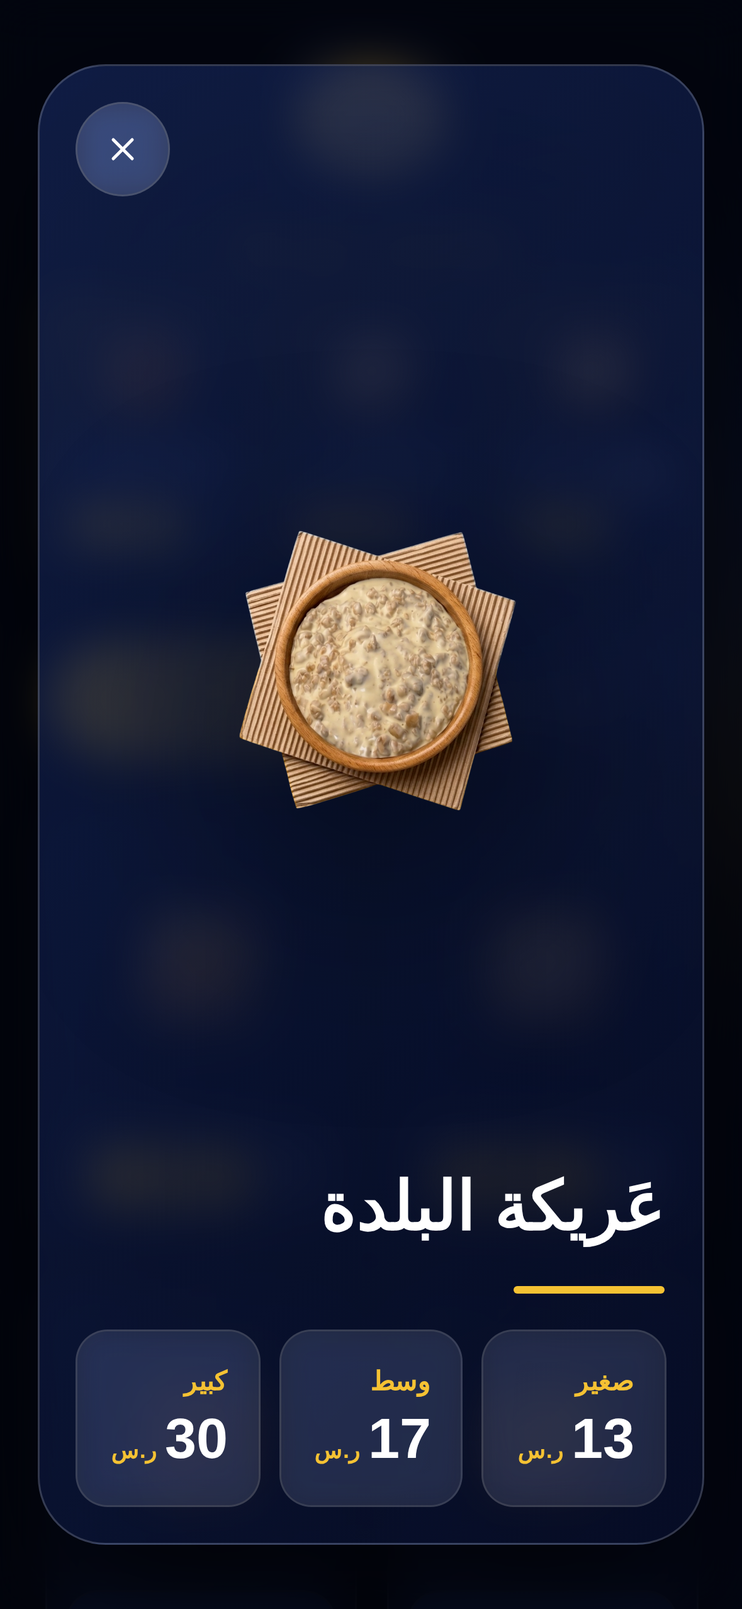
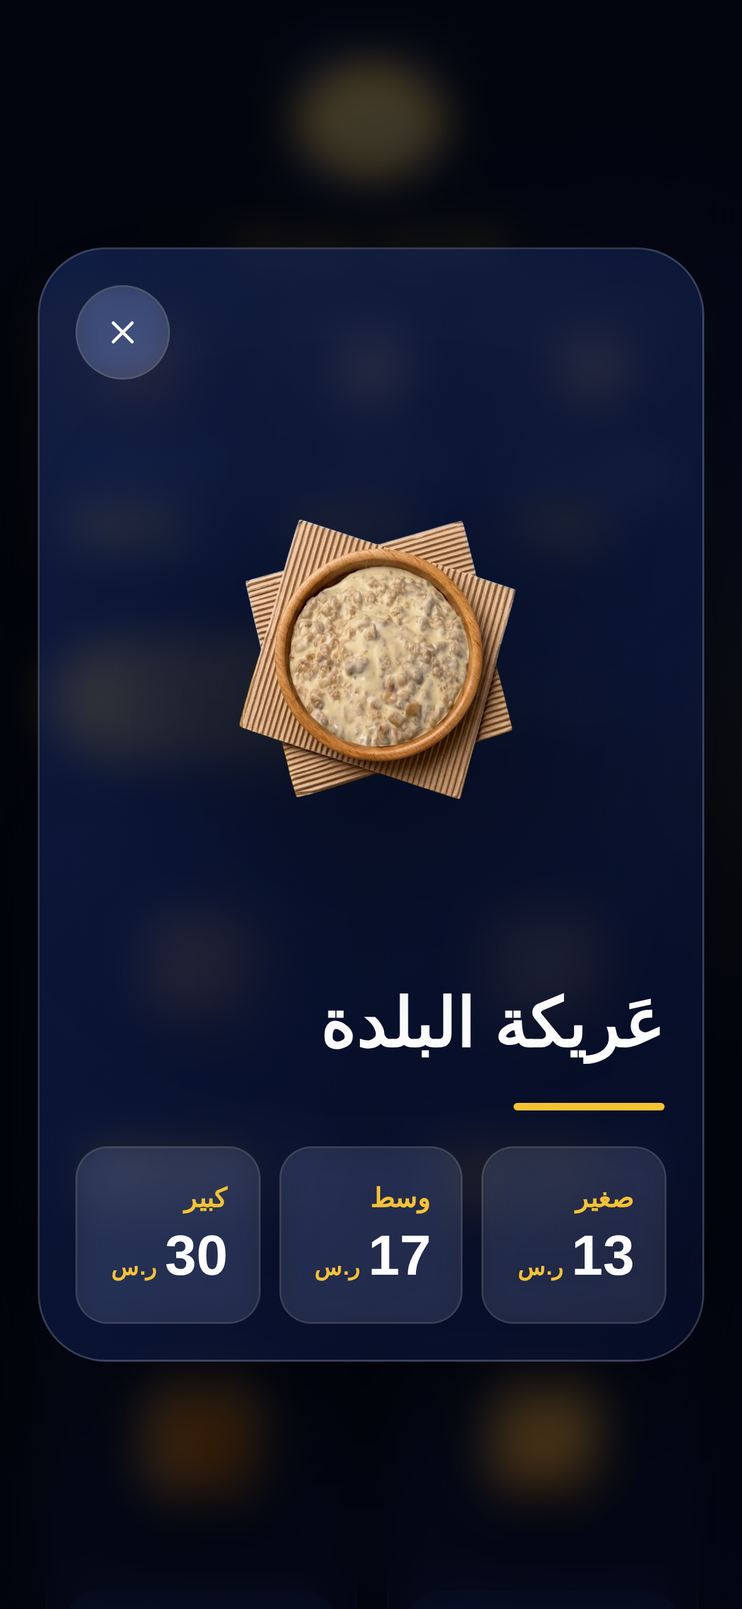
fix(web): detail-modal image fills the modal width on phone
Previous attempt used grid-rows-[1fr_auto] to make the image cell
"grow" — but with a square image inside a portrait container, that
stretched the cell while the image stayed clamped at the cell's
narrower (width) dimension. So the image was the same size, just
floating in a giant empty band above and below.

New approach: make the modal a flex-column on phone with each cell
sized to its content (no 1fr stretch), and force the image into an
aspect-square box that fills the modal width. The image is now
~360 px square on iPhone — filling the modal width, no empty band.

md+ keeps flex-row with md:h-full / md:max-h-full so iPad layout
is unchanged.

https://claude.ai/code/session_01Tjv9deCadTK9xL9Nd7REno

diff --git a/docs/assets/index-D8JvrOtp.css b/docs/assets/index-D8JvrOtp.css
@@ -1,0 +1,1 @@
+*,:before,:after{--tw-border-spacing-x: 0;--tw-border-spacing-y: 0;--tw-translate-x: 0;--tw-translate-y: 0;--tw-rotate: 0;--tw-skew-x: 0;--tw-skew-y: 0;--tw-scale-x: 1;--tw-scale-y: 1;--tw-pan-x: ;--tw-pan-y: ;--tw-pinch-zoom: ;--tw-scroll-snap-strictness: proximity;--tw-gradient-from-position: ;--tw-gradient-via-position: ;--tw-gradient-to-position: ;--tw-ordinal: ;--tw-slashed-zero: ;--tw-numeric-figure: ;--tw-numeric-spacing: ;--tw-numeric-fraction: ;--tw-ring-inset: ;--tw-ring-offset-width: 0px;--tw-ring-offset-color: #fff;--tw-ring-color: rgb(59 130 246 / .5);--tw-ring-offset-shadow: 0 0 #0000;--tw-ring-shadow: 0 0 #0000;--tw-shadow: 0 0 #0000;--tw-shadow-colored: 0 0 #0000;--tw-blur: ;--tw-brightness: ;--tw-contrast: ;--tw-grayscale: ;--tw-hue-rotate: ;--tw-invert: ;--tw-saturate: ;--tw-sepia: ;--tw-drop-shadow: ;--tw-backdrop-blur: ;--tw-backdrop-brightness: ;--tw-backdrop-contrast: ;--tw-backdrop-grayscale: ;--tw-backdrop-hue-rotate: ;--tw-backdrop-invert: ;--tw-backdrop-opacity: ;--tw-backdrop-saturate: ;--tw-backdrop-sepia: ;--tw-contain-size: ;--tw-contain-layout: ;--tw-contain-paint: ;--tw-contain-style: }::backdrop{--tw-border-spacing-x: 0;--tw-border-spacing-y: 0;--tw-translate-x: 0;--tw-translate-y: 0;--tw-rotate: 0;--tw-skew-x: 0;--tw-skew-y: 0;--tw-scale-x: 1;--tw-scale-y: 1;--tw-pan-x: ;--tw-pan-y: ;--tw-pinch-zoom: ;--tw-scroll-snap-strictness: proximity;--tw-gradient-from-position: ;--tw-gradient-via-position: ;--tw-gradient-to-position: ;--tw-ordinal: ;--tw-slashed-zero: ;--tw-numeric-figure: ;--tw-numeric-spacing: ;--tw-numeric-fraction: ;--tw-ring-inset: ;--tw-ring-offset-width: 0px;--tw-ring-offset-color: #fff;--tw-ring-color: rgb(59 130 246 / .5);--tw-ring-offset-shadow: 0 0 #0000;--tw-ring-shadow: 0 0 #0000;--tw-shadow: 0 0 #0000;--tw-shadow-colored: 0 0 #0000;--tw-blur: ;--tw-brightness: ;--tw-contrast: ;--tw-grayscale: ;--tw-hue-rotate: ;--tw-invert: ;--tw-saturate: ;--tw-sepia: ;--tw-drop-shadow: ;--tw-backdrop-blur: ;--tw-backdrop-brightness: ;--tw-backdrop-contrast: ;--tw-backdrop-grayscale: ;--tw-backdrop-hue-rotate: ;--tw-backdrop-invert: ;--tw-backdrop-opacity: ;--tw-backdrop-saturate: ;--tw-backdrop-sepia: ;--tw-contain-size: ;--tw-contain-layout: ;--tw-contain-paint: ;--tw-contain-style: }*,:before,:after{box-sizing:border-box;border-width:0;border-style:solid;border-color:#e5e7eb}:before,:after{--tw-content: ""}html,:host{line-height:1.5;-webkit-text-size-adjust:100%;-moz-tab-size:4;-o-tab-size:4;tab-size:4;font-family:ui-sans-serif,system-ui,sans-serif,"Apple Color Emoji","Segoe UI Emoji",Segoe UI Symbol,"Noto Color Emoji";font-feature-settings:normal;font-variation-settings:normal;-webkit-tap-highlight-color:transparent}body{margin:0;line-height:inherit}hr{height:0;color:inherit;border-top-width:1px}abbr:where([title]){-webkit-text-decoration:underline dotted;text-decoration:underline dotted}h1,h2,h3,h4,h5,h6{font-size:inherit;font-weight:inherit}a{color:inherit;text-decoration:inherit}b,strong{font-weight:bolder}code,kbd,samp,pre{font-family:ui-monospace,SFMono-Regular,Menlo,Monaco,Consolas,Liberation Mono,Courier New,monospace;font-feature-settings:normal;font-variation-settings:normal;font-size:1em}small{font-size:80%}sub,sup{font-size:75%;line-height:0;position:relative;vertical-align:baseline}sub{bottom:-.25em}sup{top:-.5em}table{text-indent:0;border-color:inherit;border-collapse:collapse}button,input,optgroup,select,textarea{font-family:inherit;font-feature-settings:inherit;font-variation-settings:inherit;font-size:100%;font-weight:inherit;line-height:inherit;letter-spacing:inherit;color:inherit;margin:0;padding:0}button,select{text-transform:none}button,input:where([type=button]),input:where([type=reset]),input:where([type=submit]){-webkit-appearance:button;background-color:transparent;background-image:none}:-moz-focusring{outline:auto}:-moz-ui-invalid{box-shadow:none}progress{vertical-align:baseline}::-webkit-inner-spin-button,::-webkit-outer-spin-button{height:auto}[type=search]{-webkit-appearance:textfield;outline-offset:-2px}::-webkit-search-decoration{-webkit-appearance:none}::-webkit-file-upload-button{-webkit-appearance:button;font:inherit}summary{display:list-item}blockquote,dl,dd,h1,h2,h3,h4,h5,h6,hr,figure,p,pre{margin:0}fieldset{margin:0;padding:0}legend{padding:0}ol,ul,menu{list-style:none;margin:0;padding:0}dialog{padding:0}textarea{resize:vertical}input::-moz-placeholder,textarea::-moz-placeholder{opacity:1;color:#9ca3af}input::placeholder,textarea::placeholder{opacity:1;color:#9ca3af}button,[role=button]{cursor:pointer}:disabled{cursor:default}img,svg,video,canvas,audio,iframe,embed,object{display:block;vertical-align:middle}img,video{max-width:100%;height:auto}[hidden]:where(:not([hidden=until-found])){display:none}html,body,#root{height:100%;width:100%}body{font-family:Cairo,sans-serif;background:#070d24;color:#fff;overflow:hidden;-webkit-tap-highlight-color:transparent}.container{width:100%}@media(min-width:640px){.container{max-width:640px}}@media(min-width:768px){.container{max-width:768px}}@media(min-width:1024px){.container{max-width:1024px}}@media(min-width:1280px){.container{max-width:1280px}}@media(min-width:1536px){.container{max-width:1536px}}.pointer-events-none{pointer-events:none}.visible{visibility:visible}.static{position:static}.fixed{position:fixed}.absolute{position:absolute}.relative{position:relative}.inset-0{top:0;right:0;bottom:0;left:0}.left-5{left:1.25rem}.top-5{top:1.25rem}.z-10{z-index:10}.z-50{z-index:50}.mx-2{margin-left:.5rem;margin-right:.5rem}.mx-3{margin-left:.75rem;margin-right:.75rem}.mx-auto{margin-left:auto;margin-right:auto}.my-5{margin-top:1.25rem;margin-bottom:1.25rem}.mb-2{margin-bottom:.5rem}.mb-3{margin-bottom:.75rem}.mt-1{margin-top:.25rem}.mt-6{margin-top:1.5rem}.mt-8{margin-top:2rem}.line-clamp-2{overflow:hidden;display:-webkit-box;-webkit-box-orient:vertical;-webkit-line-clamp:2}.flex{display:flex}.grid{display:grid}.aspect-\[3\/4\]{aspect-ratio:3/4}.aspect-square{aspect-ratio:1 / 1}.h-1{height:.25rem}.h-12{height:3rem}.h-14{height:3.5rem}.h-20{height:5rem}.h-4{height:1rem}.h-5{height:1.25rem}.h-\[45vh\]{height:45vh}.h-\[55vh\]{height:55vh}.h-full{height:100%}.h-px{height:1px}.max-h-full{max-height:100%}.min-h-\[2\.4em\]{min-height:2.4em}.w-12{width:3rem}.w-20{width:5rem}.w-4{width:1rem}.w-5{width:1.25rem}.w-8{width:2rem}.w-\[45vw\]{width:45vw}.w-\[55vw\]{width:55vw}.w-auto{width:auto}.w-full{width:100%}.min-w-0{min-width:0px}.max-w-2xl{max-width:42rem}.max-w-6xl{max-width:72rem}.max-w-7xl{max-width:80rem}.max-w-full{max-width:100%}.max-w-md{max-width:28rem}.flex-1{flex:1 1 0%}.flex-shrink-0,.shrink-0{flex-shrink:0}.scale-\[1\.04\]{--tw-scale-x: 1.04;--tw-scale-y: 1.04;transform:translate(var(--tw-translate-x),var(--tw-translate-y)) rotate(var(--tw-rotate)) skew(var(--tw-skew-x)) skewY(var(--tw-skew-y)) scaleX(var(--tw-scale-x)) scaleY(var(--tw-scale-y))}.transform{transform:translate(var(--tw-translate-x),var(--tw-translate-y)) rotate(var(--tw-rotate)) skew(var(--tw-skew-x)) skewY(var(--tw-skew-y)) scaleX(var(--tw-scale-x)) scaleY(var(--tw-scale-y))}.grid-cols-2{grid-template-columns:repeat(2,minmax(0,1fr))}.grid-cols-3{grid-template-columns:repeat(3,minmax(0,1fr))}.flex-col{flex-direction:column}.place-items-center{place-items:center}.items-end{align-items:flex-end}.items-center{align-items:center}.items-baseline{align-items:baseline}.items-stretch{align-items:stretch}.justify-center{justify-content:center}.justify-between{justify-content:space-between}.gap-0\.5{gap:.125rem}.gap-1{gap:.25rem}.gap-2{gap:.5rem}.gap-3{gap:.75rem}.gap-4{gap:1rem}.self-end{align-self:flex-end}.overflow-hidden{overflow:hidden}.overflow-y-auto{overflow-y:auto}.overscroll-none{overscroll-behavior:none}.rounded-2xl{border-radius:1rem}.rounded-3xl{border-radius:1.5rem}.rounded-\[36px\]{border-radius:36px}.rounded-full{border-radius:9999px}.rounded-md{border-radius:.375rem}.rounded-xl{border-radius:.75rem}.border{border-width:1px}.bg-\[\#070d24\]{--tw-bg-opacity: 1;background-color:rgb(7 13 36 / var(--tw-bg-opacity, 1))}.bg-black\/60{background-color:#0009}.bg-brand-yellow{--tw-bg-opacity: 1;background-color:rgb(245 194 51 / var(--tw-bg-opacity, 1))}.bg-white\/10{background-color:#ffffff1a}.bg-white\/15{background-color:#ffffff26}.bg-gradient-to-l{background-image:linear-gradient(to left,var(--tw-gradient-stops))}.bg-gradient-to-r{background-image:linear-gradient(to right,var(--tw-gradient-stops))}.from-brand-yellow{--tw-gradient-from: #f5c233 var(--tw-gradient-from-position);--tw-gradient-to: rgb(245 194 51 / 0) var(--tw-gradient-to-position);--tw-gradient-stops: var(--tw-gradient-from), var(--tw-gradient-to)}.to-transparent{--tw-gradient-to: transparent var(--tw-gradient-to-position)}.fill-brand-yellow{fill:#f5c233}.object-contain{-o-object-fit:contain;object-fit:contain}.p-1\.5{padding:.375rem}.p-3{padding:.75rem}.p-4{padding:1rem}.p-5{padding:1.25rem}.px-1\.5{padding-left:.375rem;padding-right:.375rem}.px-2{padding-left:.5rem;padding-right:.5rem}.px-3{padding-left:.75rem;padding-right:.75rem}.px-6{padding-left:1.5rem;padding-right:1.5rem}.py-0\.5{padding-top:.125rem;padding-bottom:.125rem}.py-1\.5{padding-top:.375rem;padding-bottom:.375rem}.py-2\.5{padding-top:.625rem;padding-bottom:.625rem}.pb-1{padding-bottom:.25rem}.pb-10{padding-bottom:2.5rem}.pb-3{padding-bottom:.75rem}.pt-10{padding-top:2.5rem}.pt-3{padding-top:.75rem}.pt-4{padding-top:1rem}.pt-6{padding-top:1.5rem}.text-center{text-align:center}.text-right{text-align:right}.font-cairo{font-family:Cairo,sans-serif}.font-tajawal{font-family:Tajawal,sans-serif}.text-2xl{font-size:1.5rem;line-height:2rem}.text-3xl{font-size:1.875rem;line-height:2.25rem}.text-\[10px\]{font-size:10px}.text-\[11px\]{font-size:11px}.text-\[8px\]{font-size:8px}.text-\[9px\]{font-size:9px}.text-base{font-size:1rem;line-height:1.5rem}.text-sm{font-size:.875rem;line-height:1.25rem}.text-xl{font-size:1.25rem;line-height:1.75rem}.text-xs{font-size:.75rem;line-height:1rem}.font-black{font-weight:900}.font-bold{font-weight:700}.leading-\[1\.2\]{line-height:1.2}.leading-none{line-height:1}.leading-tight{line-height:1.25}.tracking-wide{letter-spacing:.025em}.text-brand-blueDeep{--tw-text-opacity: 1;color:rgb(9 18 54 / var(--tw-text-opacity, 1))}.text-brand-yellow{--tw-text-opacity: 1;color:rgb(245 194 51 / var(--tw-text-opacity, 1))}.text-white{--tw-text-opacity: 1;color:rgb(255 255 255 / var(--tw-text-opacity, 1))}.text-white\/80{color:#fffc}.antialiased{-webkit-font-smoothing:antialiased;-moz-osx-font-smoothing:grayscale}.opacity-80{opacity:.8}.shadow-\[0_4px_14px_rgba\(245\,194\,51\,0\.35\)\]{--tw-shadow: 0 4px 14px rgba(245,194,51,.35);--tw-shadow-colored: 0 4px 14px var(--tw-shadow-color);box-shadow:var(--tw-ring-offset-shadow, 0 0 #0000),var(--tw-ring-shadow, 0 0 #0000),var(--tw-shadow)}.outline-none{outline:2px solid transparent;outline-offset:2px}.ring{--tw-ring-offset-shadow: var(--tw-ring-inset) 0 0 0 var(--tw-ring-offset-width) var(--tw-ring-offset-color);--tw-ring-shadow: var(--tw-ring-inset) 0 0 0 calc(3px + var(--tw-ring-offset-width)) var(--tw-ring-color);box-shadow:var(--tw-ring-offset-shadow),var(--tw-ring-shadow),var(--tw-shadow, 0 0 #0000)}.ring-1{--tw-ring-offset-shadow: var(--tw-ring-inset) 0 0 0 var(--tw-ring-offset-width) var(--tw-ring-offset-color);--tw-ring-shadow: var(--tw-ring-inset) 0 0 0 calc(1px + var(--tw-ring-offset-width)) var(--tw-ring-color);box-shadow:var(--tw-ring-offset-shadow),var(--tw-ring-shadow),var(--tw-shadow, 0 0 #0000)}.ring-2{--tw-ring-offset-shadow: var(--tw-ring-inset) 0 0 0 var(--tw-ring-offset-width) var(--tw-ring-offset-color);--tw-ring-shadow: var(--tw-ring-inset) 0 0 0 calc(2px + var(--tw-ring-offset-width)) var(--tw-ring-color);box-shadow:var(--tw-ring-offset-shadow),var(--tw-ring-shadow),var(--tw-shadow, 0 0 #0000)}.ring-inset{--tw-ring-inset: inset}.ring-brand-yellow\/0{--tw-ring-color: rgb(245 194 51 / 0)}.ring-brand-yellow\/40{--tw-ring-color: rgb(245 194 51 / .4)}.ring-white\/10{--tw-ring-color: rgb(255 255 255 / .1)}.ring-white\/15{--tw-ring-color: rgb(255 255 255 / .15)}.ring-white\/20{--tw-ring-color: rgb(255 255 255 / .2)}.ring-white\/25{--tw-ring-color: rgb(255 255 255 / .25)}.blur{--tw-blur: blur(8px);filter:var(--tw-blur) var(--tw-brightness) var(--tw-contrast) var(--tw-grayscale) var(--tw-hue-rotate) var(--tw-invert) var(--tw-saturate) var(--tw-sepia) var(--tw-drop-shadow)}.drop-shadow-\[0_18px_28px_rgba\(0\,0\,0\,0\.55\)\]{--tw-drop-shadow: drop-shadow(0 18px 28px rgba(0,0,0,.55));filter:var(--tw-blur) var(--tw-brightness) var(--tw-contrast) var(--tw-grayscale) var(--tw-hue-rotate) var(--tw-invert) var(--tw-saturate) var(--tw-sepia) var(--tw-drop-shadow)}.drop-shadow-\[0_36px_60px_rgba\(0\,0\,0\,0\.55\)\]{--tw-drop-shadow: drop-shadow(0 36px 60px rgba(0,0,0,.55));filter:var(--tw-blur) var(--tw-brightness) var(--tw-contrast) var(--tw-grayscale) var(--tw-hue-rotate) var(--tw-invert) var(--tw-saturate) var(--tw-sepia) var(--tw-drop-shadow)}.filter{filter:var(--tw-blur) var(--tw-brightness) var(--tw-contrast) var(--tw-grayscale) var(--tw-hue-rotate) var(--tw-invert) var(--tw-saturate) var(--tw-sepia) var(--tw-drop-shadow)}.backdrop-blur{--tw-backdrop-blur: blur(8px);-webkit-backdrop-filter:var(--tw-backdrop-blur) var(--tw-backdrop-brightness) var(--tw-backdrop-contrast) var(--tw-backdrop-grayscale) var(--tw-backdrop-hue-rotate) var(--tw-backdrop-invert) var(--tw-backdrop-opacity) var(--tw-backdrop-saturate) var(--tw-backdrop-sepia);backdrop-filter:var(--tw-backdrop-blur) var(--tw-backdrop-brightness) var(--tw-backdrop-contrast) var(--tw-backdrop-grayscale) var(--tw-backdrop-hue-rotate) var(--tw-backdrop-invert) var(--tw-backdrop-opacity) var(--tw-backdrop-saturate) var(--tw-backdrop-sepia)}.backdrop-blur-3xl{--tw-backdrop-blur: blur(64px);-webkit-backdrop-filter:var(--tw-backdrop-blur) var(--tw-backdrop-brightness) var(--tw-backdrop-contrast) var(--tw-backdrop-grayscale) var(--tw-backdrop-hue-rotate) var(--tw-backdrop-invert) var(--tw-backdrop-opacity) var(--tw-backdrop-saturate) var(--tw-backdrop-sepia);backdrop-filter:var(--tw-backdrop-blur) var(--tw-backdrop-brightness) var(--tw-backdrop-contrast) var(--tw-backdrop-grayscale) var(--tw-backdrop-hue-rotate) var(--tw-backdrop-invert) var(--tw-backdrop-opacity) var(--tw-backdrop-saturate) var(--tw-backdrop-sepia)}.backdrop-blur-md{--tw-backdrop-blur: blur(12px);-webkit-backdrop-filter:var(--tw-backdrop-blur) var(--tw-backdrop-brightness) var(--tw-backdrop-contrast) var(--tw-backdrop-grayscale) var(--tw-backdrop-hue-rotate) var(--tw-backdrop-invert) var(--tw-backdrop-opacity) var(--tw-backdrop-saturate) var(--tw-backdrop-sepia);backdrop-filter:var(--tw-backdrop-blur) var(--tw-backdrop-brightness) var(--tw-backdrop-contrast) var(--tw-backdrop-grayscale) var(--tw-backdrop-hue-rotate) var(--tw-backdrop-invert) var(--tw-backdrop-opacity) var(--tw-backdrop-saturate) var(--tw-backdrop-sepia)}.backdrop-filter{-webkit-backdrop-filter:var(--tw-backdrop-blur) var(--tw-backdrop-brightness) var(--tw-backdrop-contrast) var(--tw-backdrop-grayscale) var(--tw-backdrop-hue-rotate) var(--tw-backdrop-invert) var(--tw-backdrop-opacity) var(--tw-backdrop-saturate) var(--tw-backdrop-sepia);backdrop-filter:var(--tw-backdrop-blur) var(--tw-backdrop-brightness) var(--tw-backdrop-contrast) var(--tw-backdrop-grayscale) var(--tw-backdrop-hue-rotate) var(--tw-backdrop-invert) var(--tw-backdrop-opacity) var(--tw-backdrop-saturate) var(--tw-backdrop-sepia)}.transition{transition-property:color,background-color,border-color,text-decoration-color,fill,stroke,opacity,box-shadow,transform,filter,backdrop-filter;transition-timing-function:cubic-bezier(.4,0,.2,1);transition-duration:.15s}.transition-\[box-shadow\]{transition-property:box-shadow;transition-timing-function:cubic-bezier(.4,0,.2,1);transition-duration:.15s}.transition-colors{transition-property:color,background-color,border-color,text-decoration-color,fill,stroke;transition-timing-function:cubic-bezier(.4,0,.2,1);transition-duration:.15s}.transition-transform{transition-property:transform;transition-timing-function:cubic-bezier(.4,0,.2,1);transition-duration:.15s}.duration-200{transition-duration:.2s}.ease-out{transition-timing-function:cubic-bezier(0,0,.2,1)}.will-change-transform{will-change:transform}.hover\:-translate-y-1:hover{--tw-translate-y: -.25rem;transform:translate(var(--tw-translate-x),var(--tw-translate-y)) rotate(var(--tw-rotate)) skew(var(--tw-skew-x)) skewY(var(--tw-skew-y)) scaleX(var(--tw-scale-x)) scaleY(var(--tw-scale-y))}.hover\:bg-white\/20:hover{background-color:#fff3}.hover\:text-white:hover{--tw-text-opacity: 1;color:rgb(255 255 255 / var(--tw-text-opacity, 1))}.active\:scale-90:active{--tw-scale-x: .9;--tw-scale-y: .9;transform:translate(var(--tw-translate-x),var(--tw-translate-y)) rotate(var(--tw-rotate)) skew(var(--tw-skew-x)) skewY(var(--tw-skew-y)) scaleX(var(--tw-scale-x)) scaleY(var(--tw-scale-y))}.active\:scale-\[0\.98\]:active{--tw-scale-x: .98;--tw-scale-y: .98;transform:translate(var(--tw-translate-x),var(--tw-translate-y)) rotate(var(--tw-rotate)) skew(var(--tw-skew-x)) skewY(var(--tw-skew-y)) scaleX(var(--tw-scale-x)) scaleY(var(--tw-scale-y))}.group:hover .group-hover\:ring-brand-yellow\/40{--tw-ring-color: rgb(245 194 51 / .4)}.group:hover .group-hover\:ring-brand-yellow\/70{--tw-ring-color: rgb(245 194 51 / .7)}@media(min-width:640px){.sm\:mx-3{margin-left:.75rem;margin-right:.75rem}.sm\:mb-3{margin-bottom:.75rem}.sm\:line-clamp-1{overflow:hidden;display:-webkit-box;-webkit-box-orient:vertical;-webkit-line-clamp:1}.sm\:h-5{height:1.25rem}.sm\:min-h-0{min-height:0px}.sm\:w-16{width:4rem}.sm\:w-5{width:1.25rem}.sm\:flex-row{flex-direction:row}.sm\:items-center{align-items:center}.sm\:justify-between{justify-content:space-between}.sm\:gap-1{gap:.25rem}.sm\:gap-2{gap:.5rem}.sm\:gap-3{gap:.75rem}.sm\:gap-4{gap:1rem}.sm\:self-auto{align-self:auto}.sm\:rounded-2xl{border-radius:1rem}.sm\:rounded-3xl{border-radius:1.5rem}.sm\:rounded-lg{border-radius:.5rem}.sm\:p-7{padding:1.75rem}.sm\:px-2{padding-left:.5rem;padding-right:.5rem}.sm\:px-3{padding-left:.75rem;padding-right:.75rem}.sm\:py-1{padding-top:.25rem;padding-bottom:.25rem}.sm\:py-2{padding-top:.5rem;padding-bottom:.5rem}.sm\:pb-4{padding-bottom:1rem}.sm\:pt-12{padding-top:3rem}.sm\:pt-4{padding-top:1rem}.sm\:text-\[9px\]{font-size:9px}.sm\:text-lg{font-size:1.125rem;line-height:1.75rem}.sm\:text-sm{font-size:.875rem;line-height:1.25rem}.sm\:text-xl{font-size:1.25rem;line-height:1.75rem}}@media(min-width:768px){.md\:order-1{order:1}.md\:order-2{order:2}.md\:aspect-auto{aspect-ratio:auto}.md\:h-16{height:4rem}.md\:h-24{height:6rem}.md\:h-full{height:100%}.md\:max-h-\[88vh\]{max-height:88vh}.md\:max-h-full{max-height:100%}.md\:w-24{width:6rem}.md\:w-auto{width:auto}.md\:max-w-full{max-width:100%}.md\:flex-1{flex:1 1 0%}.md\:grid-cols-3{grid-template-columns:repeat(3,minmax(0,1fr))}.md\:flex-row{flex-direction:row}.md\:items-stretch{align-items:stretch}.md\:gap-4{gap:1rem}.md\:gap-8{gap:2rem}.md\:p-10{padding:2.5rem}.md\:px-10{padding-left:2.5rem;padding-right:2.5rem}.md\:pt-0{padding-top:0}.md\:pt-8{padding-top:2rem}.md\:text-2xl{font-size:1.5rem;line-height:2rem}.md\:text-4xl{font-size:2.25rem;line-height:2.5rem}.md\:text-base{font-size:1rem;line-height:1.5rem}.md\:text-sm{font-size:.875rem;line-height:1.25rem}.md\:text-xl{font-size:1.25rem;line-height:1.75rem}}@media(min-width:1024px){.lg\:grid-cols-4{grid-template-columns:repeat(4,minmax(0,1fr))}}

diff --git a/docs/assets/index-BWzk2hHK.js b/docs/assets/index-BWzk2hHK.js
@@ -84,4 +84,4 @@ Error generating stack: `+a.message+`
  *
  * This source code is licensed under the ISC license.
  * See the LICENSE file in the root directory of this source tree.
- */const hA=Ig("X",[["path",{d:"M18 6 6 18",key:"1bl5f8"}],["path",{d:"m6 6 12 12",key:"d8bk6v"}]]),dA=({dish:i,onClose:l})=>H.jsx(pn.div,{initial:{opacity:0},animate:{opacity:1},exit:{opacity:0},transition:{duration:.25},onClick:l,className:"fixed inset-0 z-50 grid place-items-center bg-black/60 p-5 backdrop-blur-md",children:H.jsxs(pn.div,{initial:{y:60,scale:.95,opacity:0},animate:{y:0,scale:1,opacity:1},exit:{y:40,scale:.95,opacity:0},transition:{type:"spring",damping:24,stiffness:240},onClick:u=>u.stopPropagation(),className:"relative grid h-full max-h-[92vh] w-full max-w-6xl grid-rows-[1fr_auto] gap-3 overflow-hidden rounded-[36px] p-5 backdrop-blur-3xl sm:p-7 md:grid-cols-2 md:grid-rows-1 md:gap-6 md:p-10",style:{background:"linear-gradient(135deg, rgba(47,85,196,0.30) 0%, rgba(9,18,54,0.55) 100%)",boxShadow:"0 36px 80px rgba(0, 0, 0, 0.55)",border:"1px solid rgba(255, 255, 255, 0.18)"},children:[H.jsx("button",{onClick:l,"aria-label":"إغلاق",className:"absolute left-5 top-5 z-10 grid h-12 w-12 place-items-center rounded-full bg-white/15 text-white ring-1 ring-white/25 backdrop-blur transition-transform hover:bg-white/20 active:scale-90",children:H.jsx(hA,{className:"h-5 w-5"})}),H.jsx("div",{className:"grid min-h-0 place-items-center pt-12 md:order-2 md:pt-0",children:H.jsx(pn.img,{initial:{scale:.92,opacity:0},animate:{scale:1,opacity:1},transition:{delay:.1,type:"spring",damping:18,stiffness:110},src:i.image,alt:i.nameAr,className:"h-full w-auto max-w-full object-contain drop-shadow-[0_36px_60px_rgba(0,0,0,0.55)]"})}),H.jsxs("div",{className:"flex flex-col justify-center md:order-1",dir:"rtl",children:[H.jsx(pn.h2,{initial:{x:24,opacity:0},animate:{x:0,opacity:1},transition:{delay:.2,type:"spring",damping:18,stiffness:120},className:"font-cairo font-black leading-tight text-white",style:{fontSize:"clamp(2.25rem, 4.5vw, 4rem)"},children:i.nameAr}),H.jsx("div",{className:"my-5 h-1 w-20 rounded-full bg-brand-yellow"}),i.prices&&i.prices.length>0?H.jsx(mA,{prices:i.prices}):H.jsx(pA,{price:i.price??"—"})]})]})}),mA=({prices:i})=>H.jsx("div",{className:"grid grid-cols-3 gap-3",children:i.map((l,u)=>H.jsxs(pn.div,{initial:{y:16,opacity:0},animate:{y:0,opacity:1},transition:{delay:.25+u*.07,type:"spring",damping:20,stiffness:140},className:"rounded-2xl bg-white/10 p-4 ring-1 ring-white/20 backdrop-blur",children:[H.jsx("div",{className:"font-cairo text-sm font-bold text-brand-yellow md:text-base",children:l.label}),H.jsxs("div",{className:"mt-1 flex items-baseline gap-1 font-cairo",children:[H.jsx("span",{className:"text-3xl font-black text-white md:text-4xl",children:l.value.split(" ")[0]}),H.jsx("span",{className:"text-xs font-bold text-brand-yellow md:text-sm",children:"ر.س"})]})]},l.label))}),pA=({price:i})=>{const[l,...u]=i.split(" ");return H.jsxs(pn.div,{initial:{scale:.9,opacity:0},animate:{scale:1,opacity:1},transition:{delay:.25,type:"spring",damping:18,stiffness:110},className:"flex items-baseline gap-2",children:[H.jsx("span",{className:"font-cairo font-black leading-none text-brand-yellow",style:{fontSize:"clamp(3rem, 7vw, 6rem)"},children:l}),H.jsx("span",{className:"font-cairo text-2xl font-bold text-brand-yellow md:text-4xl",children:u.join(" ")||"ر.س"})]})},yA=()=>H.jsx("header",{className:"flex flex-shrink-0 items-center justify-center px-6 pt-6 md:pt-8",children:H.jsx("div",{className:"grid h-20 w-20 place-items-center overflow-hidden rounded-2xl ring-1 ring-white/15 md:h-24 md:w-24",style:{background:"linear-gradient(135deg, rgba(47,85,196,0.30) 0%, rgba(9,18,54,0.65) 100%)"},children:H.jsx("img",{src:"logo.png",alt:"عَريكة البلدة",className:"h-14 w-auto md:h-16"})})}),gA=()=>H.jsxs("div",{className:"pointer-events-none absolute inset-0 overflow-hidden bg-[#070d24]",children:[H.jsx(pn.div,{className:"absolute h-[55vh] w-[55vw] rounded-full will-change-transform",style:{background:"radial-gradient(circle, rgba(47, 85, 196, 0.45), transparent 65%)",filter:"blur(45px)",transform:"translate3d(0,0,0)"},initial:{x:"15%",y:"5%"},animate:{x:["15%","35%","15%"],y:["5%","15%","5%"]},transition:{duration:50,ease:"easeInOut",repeat:1/0}}),H.jsx(pn.div,{className:"absolute h-[45vh] w-[45vw] rounded-full will-change-transform",style:{background:"radial-gradient(circle, rgba(245, 194, 51, 0.22), transparent 70%)",filter:"blur(50px)",transform:"translate3d(0,0,0)"},initial:{x:"60%",y:"55%"},animate:{x:["60%","40%","60%"],y:["55%","65%","55%"]},transition:{duration:60,ease:"easeInOut",repeat:1/0}}),H.jsx("div",{className:"absolute inset-0",style:{background:"radial-gradient(ellipse at bottom right, rgba(9,18,54,0.6), transparent 60%)"}})]}),vA=({active:i,categories:l,onChange:u})=>H.jsx("div",{className:"mx-auto grid w-full max-w-2xl grid-cols-2 gap-1 rounded-full p-1.5 ring-1 ring-white/10",style:{background:"linear-gradient(180deg, rgba(47,85,196,0.18) 0%, rgba(9,18,54,0.40) 100%)"},role:"tablist",children:l.map(o=>{const c=o.id===i;return H.jsx("button",{role:"tab","aria-selected":c,onClick:()=>u(o.id),className:`rounded-full px-3 py-2.5 text-center font-cairo text-sm font-bold transition-colors duration-200 ${c?"bg-brand-yellow text-brand-blueDeep shadow-[0_4px_14px_rgba(245,194,51,0.35)]":"text-white/80 hover:text-white"}`,children:o.labelAr},o.id)})}),bA=({dishes:i,onSelect:l})=>H.jsxs("section",{className:"mx-auto w-full max-w-7xl",children:[H.jsxs("div",{className:"flex items-center justify-center gap-2 pb-3 sm:gap-4 sm:pb-4",children:[H.jsx("span",{className:"h-px w-8 bg-gradient-to-l from-brand-yellow to-transparent sm:w-16"}),H.jsx(vy,{className:"h-4 w-4 fill-brand-yellow text-brand-yellow sm:h-5 sm:w-5",strokeWidth:2}),H.jsx("h2",{className:"font-cairo text-base font-black tracking-wide text-brand-yellow sm:text-xl md:text-2xl",children:"أصناف مميّزة"}),H.jsx(vy,{className:"h-4 w-4 fill-brand-yellow text-brand-yellow sm:h-5 sm:w-5",strokeWidth:2}),H.jsx("span",{className:"h-px w-8 bg-gradient-to-r from-brand-yellow to-transparent sm:w-16"})]}),H.jsx("div",{className:"grid grid-cols-3 gap-2 sm:gap-3 md:gap-4",children:i.map(u=>H.jsx(SA,{dish:u,onClick:()=>l(u)},u.image))})]}),SA=({dish:i,onClick:l})=>{const u=i.prices&&i.prices.length>1,o=Wg(i);return H.jsxs("button",{onClick:l,className:"group relative flex aspect-[3/4] flex-col overflow-hidden rounded-2xl text-right outline-none transition-transform duration-200 ease-out will-change-transform hover:-translate-y-1 active:scale-[0.98] sm:rounded-3xl",style:{background:"linear-gradient(135deg, rgba(245,194,51,0.18) 0%, rgba(9,18,54,0.65) 60%, rgba(9,18,54,0.65) 100%)",boxShadow:"0 16px 30px rgba(0, 0, 0, 0.45), inset 0 1px 0 rgba(255, 255, 255, 0.12)"},children:[H.jsx("div",{className:"pointer-events-none absolute inset-0 rounded-2xl ring-2 ring-inset ring-brand-yellow/40 sm:rounded-3xl"}),H.jsx("div",{className:"relative flex flex-1 items-center justify-center px-2 pb-1 pt-3 sm:pt-4",children:H.jsx("img",{src:i.image,alt:i.nameAr,decoding:"async",className:"max-h-full max-w-full object-contain drop-shadow-[0_18px_28px_rgba(0,0,0,0.55)]",style:{transform:"scale(1.06)"}})}),H.jsxs("div",{className:"relative mx-2 mb-2 flex flex-shrink-0 flex-col items-stretch gap-1 rounded-xl px-2 py-1.5 ring-1 ring-white/10 sm:mx-3 sm:mb-3 sm:flex-row sm:items-center sm:justify-between sm:gap-2 sm:rounded-2xl sm:px-3 sm:py-2",style:{background:"linear-gradient(180deg, rgba(47,85,196,0.32) 0%, rgba(9,18,54,0.70) 100%)"},children:[H.jsx("h3",{className:"line-clamp-2 min-h-[2.4em] min-w-0 flex-1 font-cairo text-[11px] font-black leading-[1.2] sm:min-h-0 sm:line-clamp-1 sm:text-sm md:text-base",children:i.nameAr}),H.jsxs("div",{className:"flex shrink-0 items-baseline gap-0.5 self-end rounded-md bg-brand-yellow px-1.5 py-0.5 text-brand-blueDeep sm:gap-1 sm:self-auto sm:rounded-lg sm:px-2 sm:py-1",children:[u?H.jsx("span",{className:"font-tajawal text-[8px] font-bold opacity-80 sm:text-[9px]",children:"من"}):null,H.jsx("span",{className:"font-cairo text-sm font-black leading-none sm:text-lg md:text-xl",children:o}),H.jsx("span",{className:"font-cairo text-[8px] font-bold sm:text-[9px]",children:"ر.س"})]})]}),H.jsx("div",{className:"pointer-events-none absolute inset-0 rounded-2xl ring-2 ring-brand-yellow/0 transition-[box-shadow] duration-200 group-hover:ring-brand-yellow/70 sm:rounded-3xl"})]})},TA=()=>{const[i,l]=G.useState("mutabbaq"),[u,o]=G.useState(null),c=G.useMemo(()=>i==="mutabbaq"?kg:Fg,[i]);return G.useEffect(()=>{Pg.forEach(d=>{const h=new Image;h.src=d.image})},[]),H.jsxs("div",{className:"relative h-full w-full overflow-hidden text-white",children:[H.jsx(gA,{}),H.jsxs("div",{className:"relative z-10 flex h-full flex-col",children:[H.jsx(yA,{}),H.jsxs("main",{className:"flex-1 overflow-y-auto px-6 pb-10 pt-4 md:px-10",children:[H.jsx(bA,{dishes:uA,onSelect:o}),H.jsx("div",{className:"mt-8",children:H.jsx(vA,{active:i,categories:lA,onChange:l})}),H.jsx(ap,{mode:"wait",children:H.jsx(pn.div,{initial:{opacity:0,y:8},animate:{opacity:1,y:0},exit:{opacity:0,y:-4},transition:{duration:.22,ease:"easeOut"},className:"mx-auto mt-6 grid w-full max-w-7xl grid-cols-2 gap-4 md:grid-cols-3 lg:grid-cols-4",children:c.map((d,h)=>H.jsx(oA,{dish:d,index:h,startingPrice:Wg(d),onClick:()=>o(d)},d.image))},i)})]})]}),H.jsx(ap,{children:u?H.jsx(dA,{dish:u,onClose:()=>o(null)}):null})]})};V1.createRoot(document.getElementById("root")).render(H.jsx(G.StrictMode,{children:H.jsx(TA,{})}));
+ */const hA=Ig("X",[["path",{d:"M18 6 6 18",key:"1bl5f8"}],["path",{d:"m6 6 12 12",key:"d8bk6v"}]]),dA=({dish:i,onClose:l})=>H.jsx(pn.div,{initial:{opacity:0},animate:{opacity:1},exit:{opacity:0},transition:{duration:.25},onClick:l,className:"fixed inset-0 z-50 grid place-items-center bg-black/60 p-5 backdrop-blur-md",children:H.jsxs(pn.div,{initial:{y:60,scale:.95,opacity:0},animate:{y:0,scale:1,opacity:1},exit:{y:40,scale:.95,opacity:0},transition:{type:"spring",damping:24,stiffness:240},onClick:u=>u.stopPropagation(),className:"relative flex w-full max-w-6xl flex-col gap-4 overflow-hidden rounded-[36px] p-5 backdrop-blur-3xl sm:p-7 md:h-full md:max-h-[88vh] md:flex-row md:items-stretch md:gap-8 md:p-10",style:{background:"linear-gradient(135deg, rgba(47,85,196,0.30) 0%, rgba(9,18,54,0.55) 100%)",boxShadow:"0 36px 80px rgba(0, 0, 0, 0.55)",border:"1px solid rgba(255, 255, 255, 0.18)"},children:[H.jsx("button",{onClick:l,"aria-label":"إغلاق",className:"absolute left-5 top-5 z-10 grid h-12 w-12 place-items-center rounded-full bg-white/15 text-white ring-1 ring-white/25 backdrop-blur transition-transform hover:bg-white/20 active:scale-90",children:H.jsx(hA,{className:"h-5 w-5"})}),H.jsx("div",{className:"flex w-full justify-center pt-10 sm:pt-12 md:order-2 md:flex-1 md:pt-0",children:H.jsx(pn.img,{initial:{scale:.92,opacity:0},animate:{scale:1,opacity:1},transition:{delay:.1,type:"spring",damping:18,stiffness:110},src:i.image,alt:i.nameAr,className:"aspect-square w-full max-w-md object-contain drop-shadow-[0_36px_60px_rgba(0,0,0,0.55)] md:aspect-auto md:h-full md:max-h-full md:w-auto md:max-w-full"})}),H.jsxs("div",{className:"flex flex-col justify-center md:order-1 md:flex-1",dir:"rtl",children:[H.jsx(pn.h2,{initial:{x:24,opacity:0},animate:{x:0,opacity:1},transition:{delay:.2,type:"spring",damping:18,stiffness:120},className:"font-cairo font-black leading-tight text-white",style:{fontSize:"clamp(2.25rem, 4.5vw, 4rem)"},children:i.nameAr}),H.jsx("div",{className:"my-5 h-1 w-20 rounded-full bg-brand-yellow"}),i.prices&&i.prices.length>0?H.jsx(mA,{prices:i.prices}):H.jsx(pA,{price:i.price??"—"})]})]})}),mA=({prices:i})=>H.jsx("div",{className:"grid grid-cols-3 gap-3",children:i.map((l,u)=>H.jsxs(pn.div,{initial:{y:16,opacity:0},animate:{y:0,opacity:1},transition:{delay:.25+u*.07,type:"spring",damping:20,stiffness:140},className:"rounded-2xl bg-white/10 p-4 ring-1 ring-white/20 backdrop-blur",children:[H.jsx("div",{className:"font-cairo text-sm font-bold text-brand-yellow md:text-base",children:l.label}),H.jsxs("div",{className:"mt-1 flex items-baseline gap-1 font-cairo",children:[H.jsx("span",{className:"text-3xl font-black text-white md:text-4xl",children:l.value.split(" ")[0]}),H.jsx("span",{className:"text-xs font-bold text-brand-yellow md:text-sm",children:"ر.س"})]})]},l.label))}),pA=({price:i})=>{const[l,...u]=i.split(" ");return H.jsxs(pn.div,{initial:{scale:.9,opacity:0},animate:{scale:1,opacity:1},transition:{delay:.25,type:"spring",damping:18,stiffness:110},className:"flex items-baseline gap-2",children:[H.jsx("span",{className:"font-cairo font-black leading-none text-brand-yellow",style:{fontSize:"clamp(3rem, 7vw, 6rem)"},children:l}),H.jsx("span",{className:"font-cairo text-2xl font-bold text-brand-yellow md:text-4xl",children:u.join(" ")||"ر.س"})]})},yA=()=>H.jsx("header",{className:"flex flex-shrink-0 items-center justify-center px-6 pt-6 md:pt-8",children:H.jsx("div",{className:"grid h-20 w-20 place-items-center overflow-hidden rounded-2xl ring-1 ring-white/15 md:h-24 md:w-24",style:{background:"linear-gradient(135deg, rgba(47,85,196,0.30) 0%, rgba(9,18,54,0.65) 100%)"},children:H.jsx("img",{src:"logo.png",alt:"عَريكة البلدة",className:"h-14 w-auto md:h-16"})})}),gA=()=>H.jsxs("div",{className:"pointer-events-none absolute inset-0 overflow-hidden bg-[#070d24]",children:[H.jsx(pn.div,{className:"absolute h-[55vh] w-[55vw] rounded-full will-change-transform",style:{background:"radial-gradient(circle, rgba(47, 85, 196, 0.45), transparent 65%)",filter:"blur(45px)",transform:"translate3d(0,0,0)"},initial:{x:"15%",y:"5%"},animate:{x:["15%","35%","15%"],y:["5%","15%","5%"]},transition:{duration:50,ease:"easeInOut",repeat:1/0}}),H.jsx(pn.div,{className:"absolute h-[45vh] w-[45vw] rounded-full will-change-transform",style:{background:"radial-gradient(circle, rgba(245, 194, 51, 0.22), transparent 70%)",filter:"blur(50px)",transform:"translate3d(0,0,0)"},initial:{x:"60%",y:"55%"},animate:{x:["60%","40%","60%"],y:["55%","65%","55%"]},transition:{duration:60,ease:"easeInOut",repeat:1/0}}),H.jsx("div",{className:"absolute inset-0",style:{background:"radial-gradient(ellipse at bottom right, rgba(9,18,54,0.6), transparent 60%)"}})]}),vA=({active:i,categories:l,onChange:u})=>H.jsx("div",{className:"mx-auto grid w-full max-w-2xl grid-cols-2 gap-1 rounded-full p-1.5 ring-1 ring-white/10",style:{background:"linear-gradient(180deg, rgba(47,85,196,0.18) 0%, rgba(9,18,54,0.40) 100%)"},role:"tablist",children:l.map(o=>{const c=o.id===i;return H.jsx("button",{role:"tab","aria-selected":c,onClick:()=>u(o.id),className:`rounded-full px-3 py-2.5 text-center font-cairo text-sm font-bold transition-colors duration-200 ${c?"bg-brand-yellow text-brand-blueDeep shadow-[0_4px_14px_rgba(245,194,51,0.35)]":"text-white/80 hover:text-white"}`,children:o.labelAr},o.id)})}),bA=({dishes:i,onSelect:l})=>H.jsxs("section",{className:"mx-auto w-full max-w-7xl",children:[H.jsxs("div",{className:"flex items-center justify-center gap-2 pb-3 sm:gap-4 sm:pb-4",children:[H.jsx("span",{className:"h-px w-8 bg-gradient-to-l from-brand-yellow to-transparent sm:w-16"}),H.jsx(vy,{className:"h-4 w-4 fill-brand-yellow text-brand-yellow sm:h-5 sm:w-5",strokeWidth:2}),H.jsx("h2",{className:"font-cairo text-base font-black tracking-wide text-brand-yellow sm:text-xl md:text-2xl",children:"أصناف مميّزة"}),H.jsx(vy,{className:"h-4 w-4 fill-brand-yellow text-brand-yellow sm:h-5 sm:w-5",strokeWidth:2}),H.jsx("span",{className:"h-px w-8 bg-gradient-to-r from-brand-yellow to-transparent sm:w-16"})]}),H.jsx("div",{className:"grid grid-cols-3 gap-2 sm:gap-3 md:gap-4",children:i.map(u=>H.jsx(SA,{dish:u,onClick:()=>l(u)},u.image))})]}),SA=({dish:i,onClick:l})=>{const u=i.prices&&i.prices.length>1,o=Wg(i);return H.jsxs("button",{onClick:l,className:"group relative flex aspect-[3/4] flex-col overflow-hidden rounded-2xl text-right outline-none transition-transform duration-200 ease-out will-change-transform hover:-translate-y-1 active:scale-[0.98] sm:rounded-3xl",style:{background:"linear-gradient(135deg, rgba(245,194,51,0.18) 0%, rgba(9,18,54,0.65) 60%, rgba(9,18,54,0.65) 100%)",boxShadow:"0 16px 30px rgba(0, 0, 0, 0.45), inset 0 1px 0 rgba(255, 255, 255, 0.12)"},children:[H.jsx("div",{className:"pointer-events-none absolute inset-0 rounded-2xl ring-2 ring-inset ring-brand-yellow/40 sm:rounded-3xl"}),H.jsx("div",{className:"relative flex flex-1 items-center justify-center px-2 pb-1 pt-3 sm:pt-4",children:H.jsx("img",{src:i.image,alt:i.nameAr,decoding:"async",className:"max-h-full max-w-full object-contain drop-shadow-[0_18px_28px_rgba(0,0,0,0.55)]",style:{transform:"scale(1.06)"}})}),H.jsxs("div",{className:"relative mx-2 mb-2 flex flex-shrink-0 flex-col items-stretch gap-1 rounded-xl px-2 py-1.5 ring-1 ring-white/10 sm:mx-3 sm:mb-3 sm:flex-row sm:items-center sm:justify-between sm:gap-2 sm:rounded-2xl sm:px-3 sm:py-2",style:{background:"linear-gradient(180deg, rgba(47,85,196,0.32) 0%, rgba(9,18,54,0.70) 100%)"},children:[H.jsx("h3",{className:"line-clamp-2 min-h-[2.4em] min-w-0 flex-1 font-cairo text-[11px] font-black leading-[1.2] sm:min-h-0 sm:line-clamp-1 sm:text-sm md:text-base",children:i.nameAr}),H.jsxs("div",{className:"flex shrink-0 items-baseline gap-0.5 self-end rounded-md bg-brand-yellow px-1.5 py-0.5 text-brand-blueDeep sm:gap-1 sm:self-auto sm:rounded-lg sm:px-2 sm:py-1",children:[u?H.jsx("span",{className:"font-tajawal text-[8px] font-bold opacity-80 sm:text-[9px]",children:"من"}):null,H.jsx("span",{className:"font-cairo text-sm font-black leading-none sm:text-lg md:text-xl",children:o}),H.jsx("span",{className:"font-cairo text-[8px] font-bold sm:text-[9px]",children:"ر.س"})]})]}),H.jsx("div",{className:"pointer-events-none absolute inset-0 rounded-2xl ring-2 ring-brand-yellow/0 transition-[box-shadow] duration-200 group-hover:ring-brand-yellow/70 sm:rounded-3xl"})]})},TA=()=>{const[i,l]=G.useState("mutabbaq"),[u,o]=G.useState(null),c=G.useMemo(()=>i==="mutabbaq"?kg:Fg,[i]);return G.useEffect(()=>{Pg.forEach(d=>{const h=new Image;h.src=d.image})},[]),H.jsxs("div",{className:"relative h-full w-full overflow-hidden text-white",children:[H.jsx(gA,{}),H.jsxs("div",{className:"relative z-10 flex h-full flex-col",children:[H.jsx(yA,{}),H.jsxs("main",{className:"flex-1 overflow-y-auto px-6 pb-10 pt-4 md:px-10",children:[H.jsx(bA,{dishes:uA,onSelect:o}),H.jsx("div",{className:"mt-8",children:H.jsx(vA,{active:i,categories:lA,onChange:l})}),H.jsx(ap,{mode:"wait",children:H.jsx(pn.div,{initial:{opacity:0,y:8},animate:{opacity:1,y:0},exit:{opacity:0,y:-4},transition:{duration:.22,ease:"easeOut"},className:"mx-auto mt-6 grid w-full max-w-7xl grid-cols-2 gap-4 md:grid-cols-3 lg:grid-cols-4",children:c.map((d,h)=>H.jsx(oA,{dish:d,index:h,startingPrice:Wg(d),onClick:()=>o(d)},d.image))},i)})]})]}),H.jsx(ap,{children:u?H.jsx(dA,{dish:u,onClose:()=>o(null)}):null})]})};V1.createRoot(document.getElementById("root")).render(H.jsx(G.StrictMode,{children:H.jsx(TA,{})}));

diff --git a/web/src/components/DishDetail.tsx b/web/src/components/DishDetail.tsx
@@ -28,7 +28,7 @@ export const DishDetail = ({
         exit={{y: 40, scale: 0.95, opacity: 0}}
         transition={{type: 'spring', damping: 24, stiffness: 240}}
         onClick={(e) => e.stopPropagation()}
-        className="relative grid h-full max-h-[92vh] w-full max-w-6xl grid-rows-[1fr_auto] gap-3 overflow-hidden rounded-[36px] p-5 backdrop-blur-3xl sm:p-7 md:grid-cols-2 md:grid-rows-1 md:gap-6 md:p-10"
+        className="relative flex w-full max-w-6xl flex-col gap-4 overflow-hidden rounded-[36px] p-5 backdrop-blur-3xl sm:p-7 md:h-full md:max-h-[88vh] md:flex-row md:items-stretch md:gap-8 md:p-10"
         style={{
           background:
             'linear-gradient(135deg, rgba(47,85,196,0.30) 0%, rgba(9,18,54,0.55) 100%)',
@@ -44,20 +44,26 @@ export const DishDetail = ({
           <X className="h-5 w-5" />
         </button>
 
-        {/* Image — fills the entire 1fr row on phone, no fixed cap */}
-        <div className="grid min-h-0 place-items-center pt-12 md:order-2 md:pt-0">
+        {/* Image — sized to its natural rendered footprint so the
+            container doesn't add a 1fr empty band around it. On phone
+            the image fills the modal width (square); on tablet+ it
+            takes its half of the row. */}
+        <div className="flex w-full justify-center pt-10 sm:pt-12 md:order-2 md:flex-1 md:pt-0">
           <motion.img
             initial={{scale: 0.92, opacity: 0}}
             animate={{scale: 1, opacity: 1}}
             transition={{delay: 0.1, type: 'spring', damping: 18, stiffness: 110}}
             src={dish.image}
             alt={dish.nameAr}
-            className="h-full w-auto max-w-full object-contain drop-shadow-[0_36px_60px_rgba(0,0,0,0.55)]"
+            className="aspect-square w-full max-w-md object-contain drop-shadow-[0_36px_60px_rgba(0,0,0,0.55)] md:aspect-auto md:h-full md:max-h-full md:w-auto md:max-w-full"
           />
         </div>
 
         {/* Text */}
-        <div className="flex flex-col justify-center md:order-1" dir="rtl">
+        <div
+          className="flex flex-col justify-center md:order-1 md:flex-1"
+          dir="rtl"
+        >
           <motion.h2
             initial={{x: 24, opacity: 0}}
             animate={{x: 0, opacity: 1}}

diff --git a/docs/index.html b/docs/index.html
@@ -13,8 +13,8 @@
       href="https://fonts.googleapis.com/css2?family=Cairo:wght@400;700;900&family=Tajawal:wght@400;500;700&display=swap"
       rel="stylesheet"
     />
-    <script type="module" crossorigin src="./assets/index-YnrYnGie.js"></script>
-    <link rel="stylesheet" crossorigin href="./assets/index-tiuiu5Vd.css">
+    <script type="module" crossorigin src="./assets/index-BWzk2hHK.js"></script>
+    <link rel="stylesheet" crossorigin href="./assets/index-D8JvrOtp.css">
   </head>
   <body class="overscroll-none antialiased">
     <div id="root"></div>
